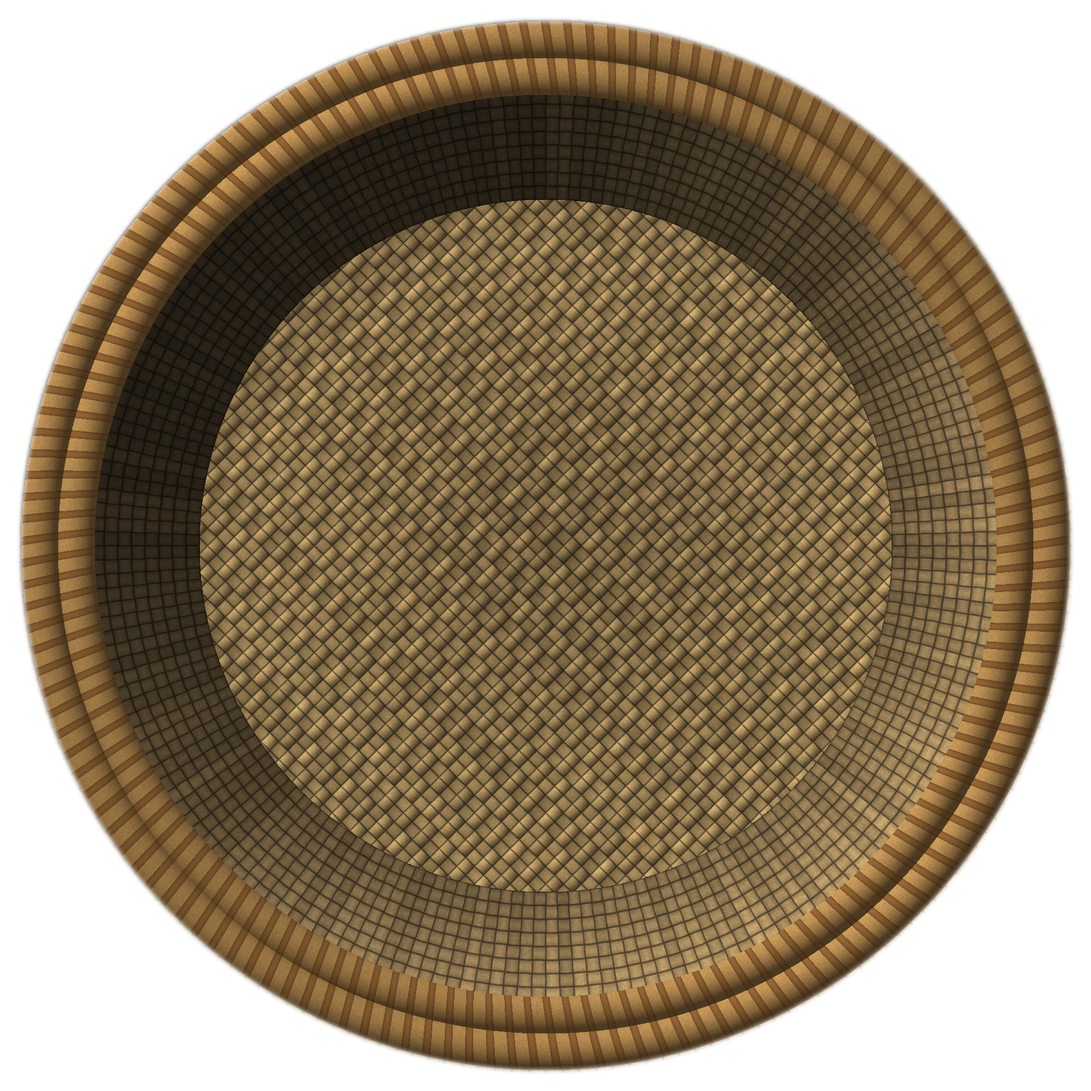
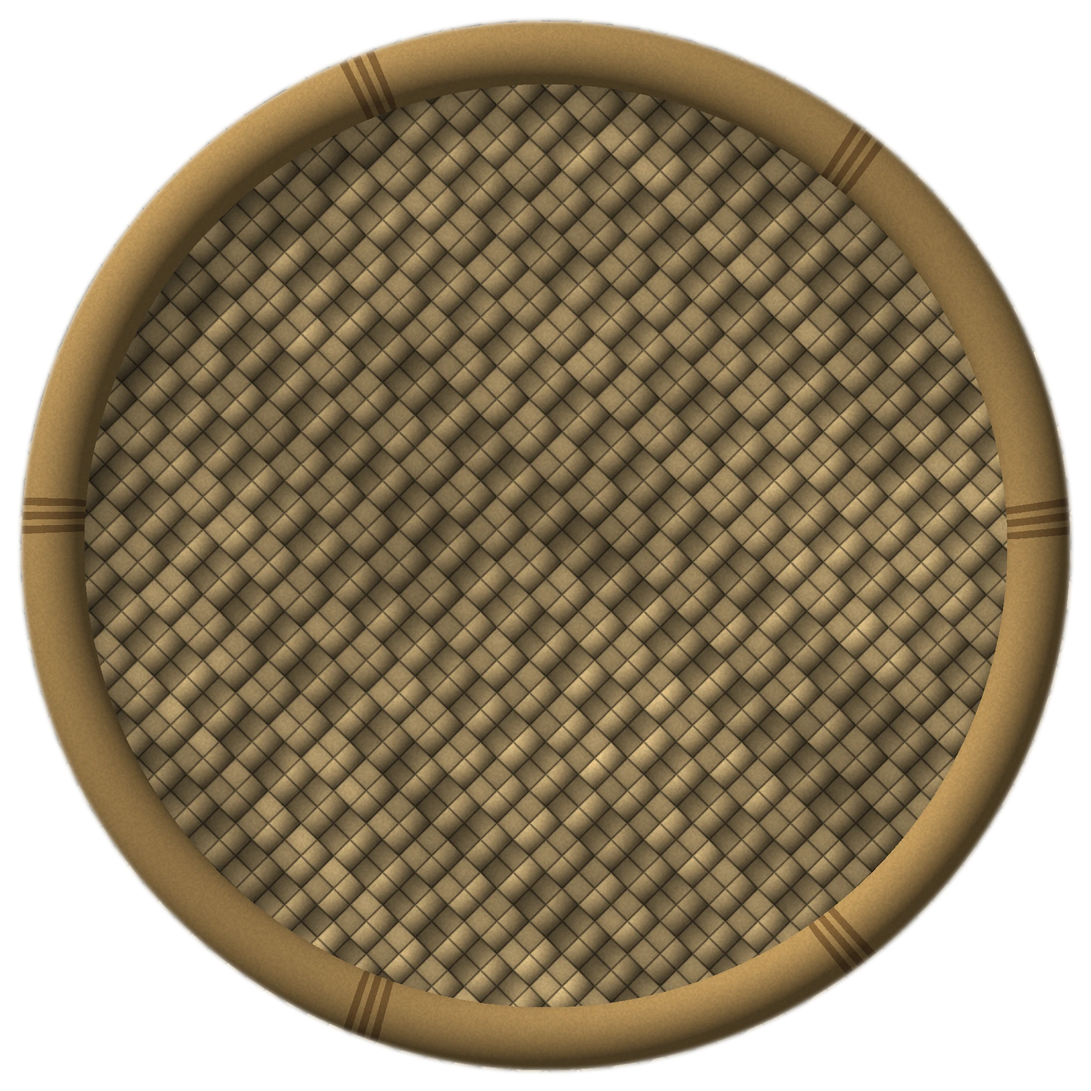
Cờ gánh riêng: nia cạn như bản web cũ (1 vòng cạp, đáy lóng mốt tới mép, bóng đổ ngắn)
Claude-Session: https://claude.ai/code/session_01TQanobdVuAPkANjsC6pBFu

diff --git a/src/tools/cg/cg9.py b/src/tools/cg/cg9.py
@@ -190,6 +190,63 @@ def ro(R=100.0, seed=3):
     return P.rgba(col, al)
 
 
+def nia(R=100.0, seed=3):
+    """nia tre cạn (như bản web cũ): đáy đan lóng mốt phủ gần tới mép, 1 vòng cạp tre tròn to, mây buộc thưa"""
+    rg = np.random.default_rng(seed)
+    n = int(R * 2.08 * K); c = n / 2
+    xx, yy = P.grid(n)
+    dx = (xx - c) / K; dy = (yy - c) / K
+    d = np.hypot(dx, dy); ang = np.arctan2(dy, dx)
+    r_rim = R * 0.88
+    # đáy: lóng mốt nan rộng 4.4 css, xéo 45, mỗi nan 1 tông, nổi lên ở đoạn nằm trên
+    u = (dx + dy) / math.sqrt(2); v = (dx - dy) / math.sqrt(2)
+    w = 4.4
+    iu = np.floor(u / w); iv = np.floor(v / w)
+    fu = u / w - iu; fv = v / w - iv
+    top = ((iu.astype(int) + iv.astype(int) // 2) % 2) == 0
+    f = np.where(top, fv, fu)
+    along = np.where(top, fu, fv)
+    seg = ((np.where(top, iu, iv).astype(int)) % 2 + along) / 2
+    lift = np.sin(seg * math.pi)
+    ndir = (f - 0.5) * 1.5
+    nz = np.sqrt(np.clip(1 - ndir ** 2, 0, 1))
+    # nghiêng theo chiều dọc nan ở chỗ luồn xuống (đầu nan chúi xuống) cho có khối
+    tilt = np.cos(seg * math.pi) * 0.35
+    nxb = np.where(top, ndir / math.sqrt(2) + tilt / math.sqrt(2), ndir / math.sqrt(2) + tilt / math.sqrt(2))
+    nyb = np.where(top, -ndir / math.sqrt(2) + tilt / math.sqrt(2), ndir / math.sqrt(2) - tilt / math.sqrt(2))
+    sb = P.lam(nxb, nyb, nz)
+    strip = rg.random((4000,)).astype(np.float32)
+    sid = (np.where(top, iv, iu).astype(int) + 2000) % strip.size
+    stv = strip[sid]
+    bam = np.array([196, 168, 118], np.float32) * (0.84 + 0.24 * stv)[..., None]
+    fib = B.fbm(n, n, 3.0, 2, rg)
+    stain = B.fbm(n, n, 160, 3, rg)                    # loang màu tre cũ
+    col = bam * (0.5 + 0.6 * sb)[..., None] * (0.9 + 0.14 * fib)[..., None] * (0.8 + 0.2 * lift)[..., None]
+    col *= (0.76 + 0.38 * stain)[..., None]
+    gap = np.minimum(np.minimum(fu, 1 - fu), np.minimum(fv, 1 - fv))
+    col *= (0.5 + 0.5 * np.clip(gap * 14, 0, 1))[..., None]
+    # cạn: chỉ hơi tối sát cạp phía bị che nắng
+    facing = np.clip((dx * P.L[0] + dy * P.L[1]) / np.maximum(d, 1e-3), -1, 1)
+    shin = np.clip((d - (r_rim - R * 0.12)) / (R * 0.12), 0, 1) * np.clip(facing + 0.3, 0, 1)
+    col *= (1 - 0.32 * shin * (d < r_rim))[..., None]
+    # cạp: 1 vòng tre tròn to
+    t = (d - r_rim) / (R - r_rim)
+    rimm = (t >= 0) & (t <= 1)
+    rn = (t - 0.5) * 1.9
+    nzr = np.sqrt(np.clip(1 - rn ** 2, 0, 1))
+    sr = P.lam(rn * dx / np.maximum(d, 1e-3), rn * dy / np.maximum(d, 1e-3), nzr)
+    rc = np.array([178, 142, 86], np.float32) * (0.42 + 0.7 * sr)[..., None] * (0.92 + 0.12 * fib)[..., None]
+    # mây buộc thưa (6 chỗ), mỗi chỗ vài vòng quấn
+    for k in range(6):
+        a0 = k / 6 * 2 * math.pi + rg.uniform(-0.2, 0.2)
+        da = np.angle(np.exp(1j * (ang - a0))) * R
+        band = (np.abs(da) < 4.0) & (np.sin(da * 2.3 + t * 2.0) > -0.2)
+        rc = np.where((band & rimm)[..., None], rc * 0.78 * np.array([0.92, 0.86, 0.8]), rc)
+    col = np.where(rimm[..., None], rc, col)
+    al = P.blur((d <= R).astype(np.float32), 0.4 * K)
+    return P.rgba(col, al)
+
+
 if __name__ == '__main__':
     out = sys.argv[1]; job = sys.argv[2]
     os.makedirs(out, exist_ok=True)
@@ -199,5 +256,5 @@ if __name__ == '__main__':
             P.to_img(gach(i)).save(os.path.join(out, 'g%d.webp' % i), lossless=True, method=4)
             print('quan', i, flush=True)
     elif job == 'ro':
-        P.to_img(ro()).save(os.path.join(out, 'ro.webp'), lossless=True, method=4)
+        P.to_img(nia()).save(os.path.join(out, 'ro.webp'), lossless=True, method=4)
         print('ro', flush=True)
